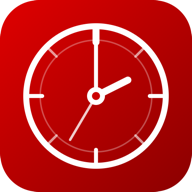
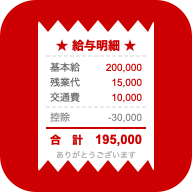
アイコンをレシート風給与明細デザインに変更・アプリカラーを赤#CC0000に統一
- icon.svg: レシート風（ギザギザ・給与明細）デザインに刷新
- icon-192.png / icon-512.png: 新SVGから再生成
- index.html: テーマカラーを#7b1111→#CC0000、ホバーを#9b2c2c→#880000に統一
- manifest.json: theme_colorを#CC0000に更新
- sw.js: キャッシュバージョンをv3に更新

diff --git a/index.html b/index.html
@@ -6,7 +6,7 @@
 <title>TimeKeeper</title>
 <!-- PWA -->
 <link rel="manifest" href="manifest.json">
-<meta name="theme-color" content="#7b1111">
+<meta name="theme-color" content="#CC0000">
 <meta name="apple-mobile-web-app-capable" content="yes">
 <meta name="apple-mobile-web-app-status-bar-style" content="black-translucent">
 <meta name="apple-mobile-web-app-title" content="TimeKeeper">
@@ -16,7 +16,7 @@
   body { font-family: -apple-system, BlinkMacSystemFont, "Hiragino Sans", sans-serif; background: #fdf0f0; color: #1a202c; min-height: 100vh; }
 
   header {
-    background: #7b1111;
+    background: #CC0000;
     color: white;
     padding: 16px 24px;
     display: flex;
@@ -124,7 +124,7 @@
   .shift-date-block {
     min-width: 52px;
     text-align: center;
-    background: #7b1111;
+    background: #CC0000;
     color: white;
     border-radius: 10px;
     padding: 6px 8px;
@@ -143,7 +143,7 @@
     color: #1a202c;
     margin-bottom: 4px;
   }
-  .shift-time-arrow { color: #c53030; font-size: 13px; }
+  .shift-time-arrow { color: #CC0000; font-size: 13px; }
   .shift-meta-row {
     display: flex;
     gap: 8px;
@@ -185,7 +185,7 @@
     padding-right: 26px;
     text-align: center;
   }
-  .time-select:focus { border-color: #c53030; box-shadow: 0 0 0 2px rgba(197,48,48,0.15); }
+  .time-select:focus { border-color: #CC0000; box-shadow: 0 0 0 2px rgba(197,48,48,0.15); }
 
   .badge {
     display: inline-block;
@@ -202,7 +202,7 @@
   /* ボタン */
   .btn-primary {
     padding: 10px 20px;
-    background: #c53030;
+    background: #CC0000;
     color: white;
     border: none;
     border-radius: 8px;
@@ -211,7 +211,7 @@
     cursor: pointer;
     transition: background 0.15s;
   }
-  .btn-primary:hover { background: #9b2c2c; }
+  .btn-primary:hover { background: #880000; }
   .btn-sm {
     padding: 5px 10px;
     border-radius: 6px;
@@ -234,7 +234,7 @@
   .edit-row td { background: #fffff0 !important; }
   .time-input {
     padding: 4px 6px;
-    border: 1px solid #c53030;
+    border: 1px solid #CC0000;
     border-radius: 6px;
     font-size: 13px;
     width: 80px;
@@ -243,7 +243,7 @@
   }
   .break-input {
     padding: 4px 6px;
-    border: 1px solid #c53030;
+    border: 1px solid #CC0000;
     border-radius: 6px;
     font-size: 13px;
     width: 58px;
@@ -372,7 +372,7 @@
     margin-bottom: 16px;
   }
   .payslip-header {
-    background: #7b1111;
+    background: #CC0000;
     color: white;
     padding: 14px 20px;
     display: flex;
@@ -460,7 +460,7 @@
     border: 1px solid #fefcbf;
   }
   .cal-cell.cal-today {
-    outline: 2px solid #7b1111;
+    outline: 2px solid #CC0000;
     outline-offset: -1px;
   }
   .cal-cell.cal-other {
@@ -479,7 +479,7 @@
   .cal-cell.cal-sat .cal-num { color: #3182ce; }
   .cal-shift-label {
     font-size: 9px;
-    color: #7b1111;
+    color: #CC0000;
     font-weight: 600;
     line-height: 1.3;
     display: block;
@@ -518,12 +518,12 @@
   .leave-cell.remaining { background: #fff5f5; border: 1px solid #fed7d7; }
   .leave-progress { margin-top: 4px; }
   .leave-progress-bar { height: 10px; background: #e2e8f0; border-radius: 5px; overflow: hidden; margin: 6px 0; }
-  .leave-progress-fill { height: 100%; border-radius: 5px; background: #c53030; transition: width 0.4s; }
+  .leave-progress-fill { height: 100%; border-radius: 5px; background: #CC0000; transition: width 0.4s; }
   .leave-grant-list { margin-top: 12px; }
   .leave-grant-item { display: flex; align-items: center; gap: 10px; padding: 8px 0; border-bottom: 1px solid #f0f4f8; font-size: 13px; }
   .leave-grant-item:last-child { border-bottom: none; }
   .leave-grant-dot { width: 8px; height: 8px; border-radius: 50%; flex-shrink: 0; }
-  .leave-grant-dot.done    { background: #c53030; }
+  .leave-grant-dot.done    { background: #CC0000; }
   .leave-grant-dot.future  { background: #e2e8f0; }
 
   /* トースト */
@@ -531,7 +531,7 @@
     position: fixed;
     bottom: 24px;
     right: 16px;
-    background: #7b1111;
+    background: #CC0000;
     color: white;
     padding: 12px 18px;
     border-radius: 8px;
@@ -750,7 +750,7 @@
         <div class="cal-legend-box" style="background:#fffff0;border:1px solid #fefcbf"></div>シフトのみ
       </div>
       <div class="cal-legend-item">
-        <div class="cal-legend-box" style="outline:2px solid #7b1111;background:#fff"></div>今日
+        <div class="cal-legend-box" style="outline:2px solid #CC0000;background:#fff"></div>今日
       </div>
     </div>
   </div>
@@ -790,7 +790,7 @@
   <div class="bar-chart">
     <h3>月別勤務時間グラフ</h3>
     <div class="bar-legend">
-      <div class="legend-item"><div class="legend-dot" style="background:#c53030"></div>実労働</div>
+      <div class="legend-item"><div class="legend-dot" style="background:#CC0000"></div>実労働</div>
       <div class="legend-item"><div class="legend-dot" style="background:#e2e8f0;border:1px solid #cbd5e0"></div>予定</div>
     </div>
     <div id="annual-chart"></div>
@@ -886,7 +886,7 @@
         <div style="display:flex;gap:8px;flex-wrap:wrap;align-items:center">
           <button onclick="syncNow()" style="padding:8px 16px;background:#f0fff4;border:1px solid #9ae6b4;color:#276749;border-radius:8px;font-size:13px;font-weight:600;cursor:pointer">⬇ 今すぐ同期</button>
           <button onclick="showShareCode()" style="padding:8px 16px;background:#fff5f5;border:1px solid #fc8181;color:#1a202c;border-radius:8px;font-size:13px;font-weight:600;cursor:pointer">📋 共有コードを表示</button>
-          <button onclick="resetSync()" style="padding:8px 16px;background:#fff5f5;border:1px solid #fc8181;color:#c53030;border-radius:8px;font-size:13px;font-weight:600;cursor:pointer">🗑 解除</button>
+          <button onclick="resetSync()" style="padding:8px 16px;background:#fff5f5;border:1px solid #fc8181;color:#CC0000;border-radius:8px;font-size:13px;font-weight:600;cursor:pointer">🗑 解除</button>
         </div>
         <div id="sync-status" style="font-size:12px;color:#718096;display:flex;align-items:center"></div>
         <!-- 共有コード表示エリア -->
@@ -899,14 +899,14 @@
           </div>
           <div style="display:flex;gap:6px;align-items:center">
             <code id="share-code-text" style="flex:1;background:#fef3c7;padding:6px 8px;border-radius:6px;word-break:break-all;font-size:11px"></code>
-            <button onclick="copyShareCode()" style="padding:6px 12px;background:#c53030;color:white;border:none;border-radius:6px;font-size:13px;font-weight:700;cursor:pointer">コピー</button>
+            <button onclick="copyShareCode()" style="padding:6px 12px;background:#CC0000;color:white;border:none;border-radius:6px;font-size:13px;font-weight:700;cursor:pointer">コピー</button>
           </div>
         </div>
       </div>
 
       <!-- 共有コードで接続（スマホ用） -->
       <details style="font-size:13px">
-        <summary style="cursor:pointer;color:#c53030;font-weight:700">📲 スマホ用：共有コードで接続する</summary>
+        <summary style="cursor:pointer;color:#CC0000;font-weight:700">📲 スマホ用：共有コードで接続する</summary>
         <div style="margin-top:8px;background:#fff5f5;border-radius:8px;padding:10px;font-size:12px;color:#4a5568;line-height:1.7">
           PCで表示した共有コードをここに貼り付けてください
         </div>
@@ -1338,10 +1338,10 @@ function renderAutoBackupList() {
     const isToday = date === todayStr();
     return `<div style="display:flex;align-items:center;justify-content:space-between;padding:8px 10px;background:#f7fafc;border-radius:8px;border:1px solid #e2e8f0">
       <div>
-        <span style="font-size:13px;font-weight:600;color:#1a202c">${date}${isToday ? ' <span style="font-size:10px;color:#c53030">今日</span>' : ''}</span>
+        <span style="font-size:13px;font-weight:600;color:#1a202c">${date}${isToday ? ' <span style="font-size:10px;color:#CC0000">今日</span>' : ''}</span>
         <span style="font-size:11px;color:#718096;margin-left:8px">${count}件のデータ</span>
       </div>
-      <button onclick="restoreAutoBackup('${k}')" style="padding:5px 12px;background:#fff0f0;border:1px solid #fc8181;color:#c53030;border-radius:6px;font-size:12px;font-weight:600;cursor:pointer">復元</button>
+      <button onclick="restoreAutoBackup('${k}')" style="padding:5px 12px;background:#fff0f0;border:1px solid #fc8181;color:#CC0000;border-radius:6px;font-size:12px;font-weight:600;cursor:pointer">復元</button>
     </div>`;
   }).join('');
 }
@@ -1927,7 +1927,7 @@ function renderLeave() {
         return `<div class="leave-grant-item">
           <div class="leave-grant-dot ${g.isPast ? 'done' : 'future'}"></div>
           <span style="flex:1;color:${g.isPast ? '#1a202c' : '#a0aec0'}">${label}</span>
-          <span style="font-size:11px;color:${g.isPast ? '#c53030' : '#cbd5e0'}">${g.isPast ? '付与済み' : '予定'}</span>
+          <span style="font-size:11px;color:${g.isPast ? '#CC0000' : '#cbd5e0'}">${g.isPast ? '付与済み' : '予定'}</span>
         </div>`;
       }).join('')}
     </div>
@@ -2336,7 +2336,7 @@ function renderSummary() {
     const [dy, dm, dd] = date.split('-');
     const dow = ['日','月','火','水','木','金','土'][new Date(date).getDay()];
     const diffStr = diff === 0 ? '-' :
-      `<span style="color:${diff>0?'#276749':'#c53030'};font-weight:600">${diff>0?'+':''}${minutesToHM(diff)}</span>`;
+      `<span style="color:${diff>0?'#276749':'#CC0000'};font-weight:600">${diff>0?'+':''}${minutesToHM(diff)}</span>`;
     const wage = calcWage(actualMins, date.substring(0, 7));
     const transport = (hasTransport && p && actualMins > 0) ? DB.transportFee : null;
     html += `<tr>
@@ -2482,7 +2482,7 @@ function renderAnnual() {
     const diff = actualMins - plannedMins;
     const diffStr = (actualMins === 0 && plannedMins === 0) ? '-' :
       diff === 0 ? '±0:00' :
-      `<span style="color:${diff>0?'#276749':'#c53030'};font-weight:600">${diff>0?'+':''}${minutesToHM(diff)}</span>`;
+      `<span style="color:${diff>0?'#276749':'#CC0000'};font-weight:600">${diff>0?'+':''}${minutesToHM(diff)}</span>`;
     const wage = calcMonthWage(mym);
     const transport = hasTransport ? DB.transportFee * workedDays : null;
     html += `<tr>
@@ -2497,7 +2497,7 @@ function renderAnnual() {
   }
   const totalDiff = totalActual - totalPlanned;
   const totalDiffStr = totalDiff === 0 ? '±0:00' :
-    `<span style="color:${totalDiff>0?'#276749':'#c53030'};font-weight:600">${totalDiff>0?'+':''}${minutesToHM(totalDiff)}</span>`;
+    `<span style="color:${totalDiff>0?'#276749':'#CC0000'};font-weight:600">${totalDiff>0?'+':''}${minutesToHM(totalDiff)}</span>`;
   html += `<tr style="font-weight:700;background:#f7fafc">
     <td>合計</td>
     <td>${minutesToHM(totalActual)}</td>

diff --git a/sw.js b/sw.js
@@ -1,4 +1,4 @@
-const CACHE_NAME = 'kinmu-kanri-v2';
+const CACHE_NAME = 'kinmu-kanri-v3';
 const ASSETS = [
   '/kinmu-kanri/',
   '/kinmu-kanri/index.html',
